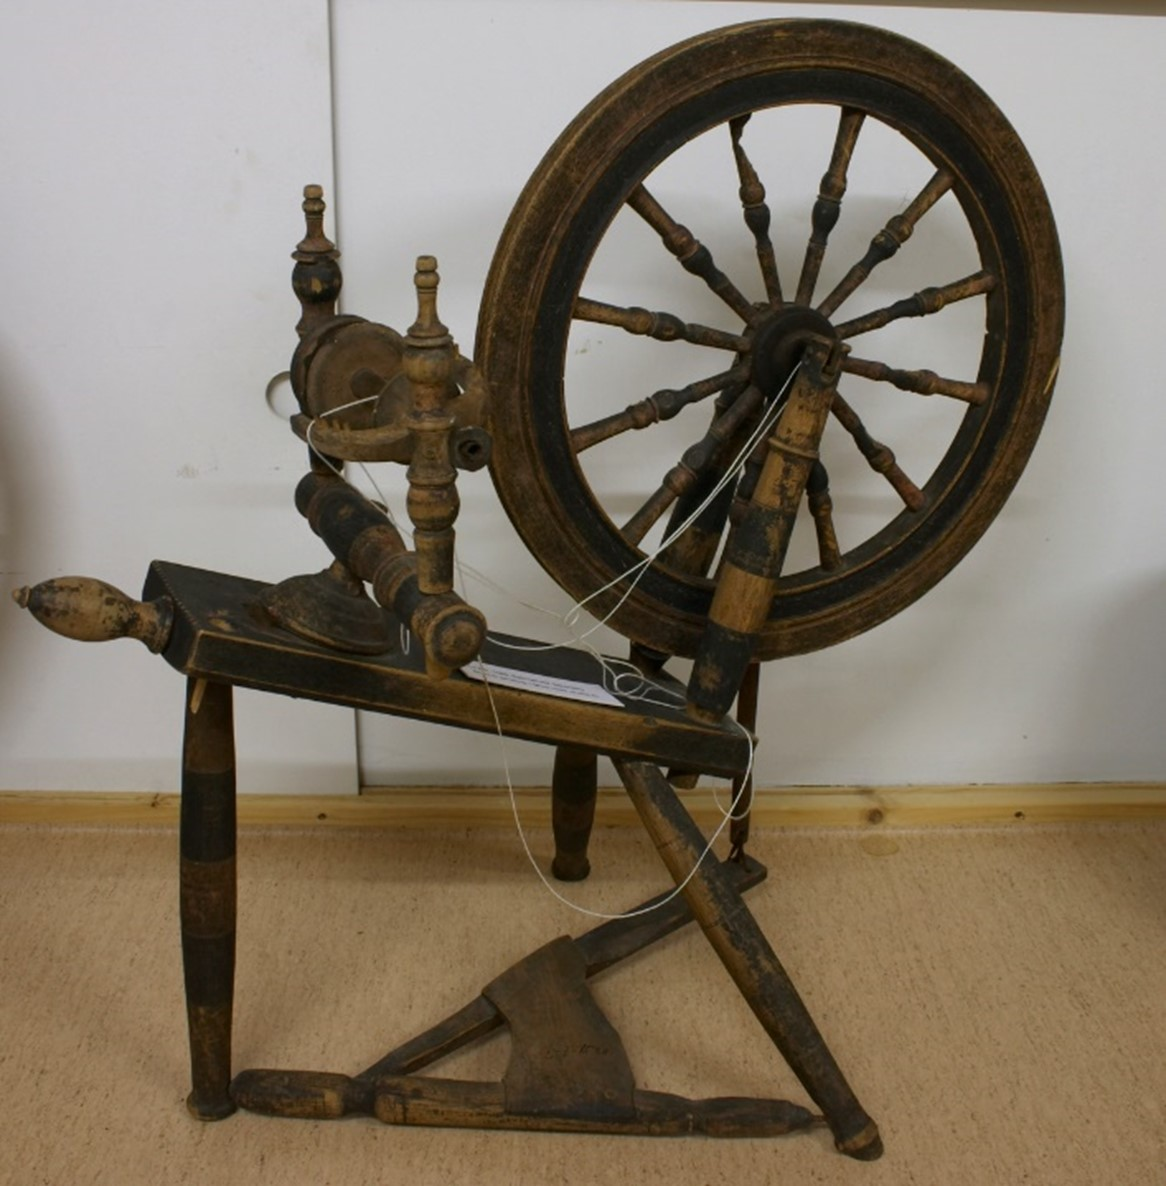
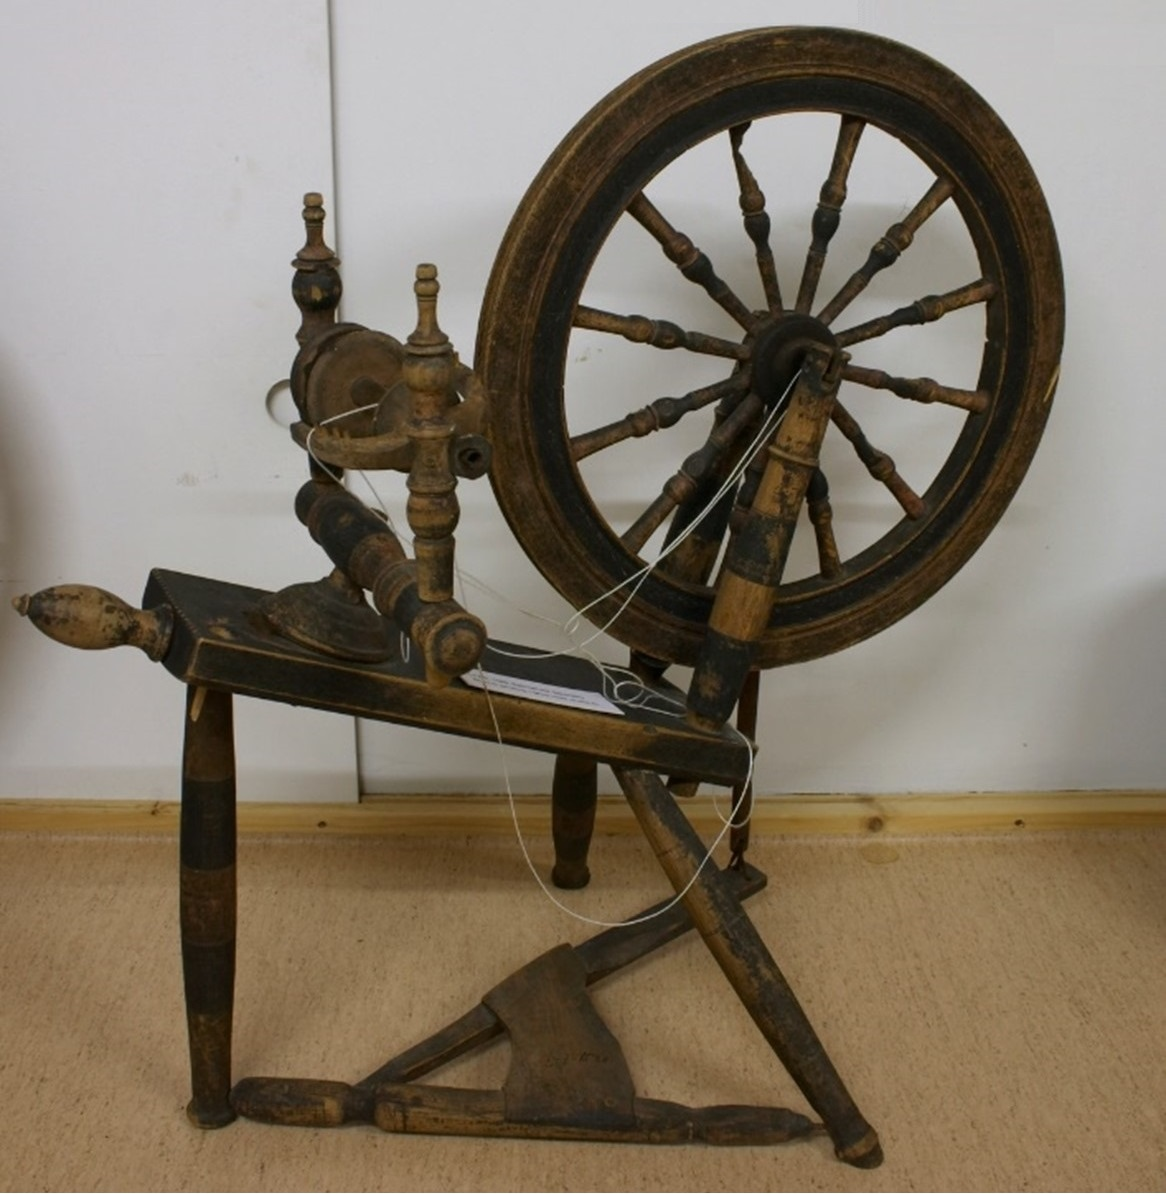
Små endringer til bildenes størrelse

diff --git a/nettutstilling.html b/nettutstilling.html
@@ -28,17 +28,14 @@
 <!--For å få navn og link i hvert bilde, er det lagt en container til hvert bilde-->
 <div class="row" style="padding-left: 5%; padding-right: 5%;"> 
     <div class="column"> <!--column to the left, from top to buttom-->
-        <br>
         <div class="container1" style="position: relative; text-align: center;">
             <img src="g1.jpg" alt="spinnerokk" style="width:100%"> 
             <div class="bottom-left-text1" style="position: absolute; bottom: 8px; left: 16px"><a href="gjenstand1.html" target="_blank" style="color: white;">Spinnerokk</a></div> <!--can insert a link on the description to start a new page about the object-->
         </div>
-        <br>
         <div class="container2" style="position: relative; text-align: center;">
             <img src="g2.jpg" alt="Utskjæring" style="width:100%">
             <div class="bottom-left-text2" style="position: absolute; bottom: 8px; left: 16px"><a href="gjenstand2.html" target="_blank" style="color: white;">Utskjæring</a></div>
         </div>
-        <br>
         <div class="container1" style="position: relative; text-align: center;">
             <img src="g3.jpg" alt="kiste" style="width:100%">
             <div class="bottom-left-text1" style="position: absolute; bottom: 8px; left: 16px"><a href="gjenstand3.html" target="_blank" style="color: white;">Kiste</a></div>
